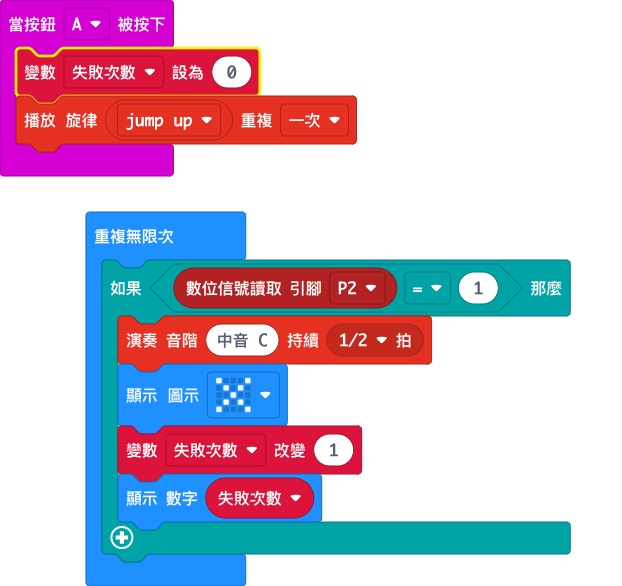
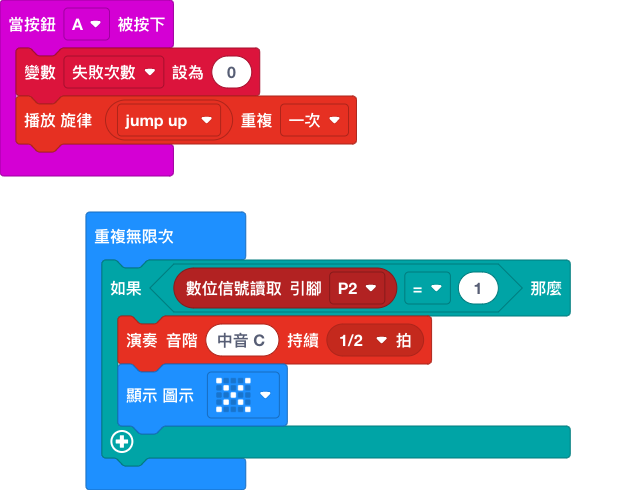
remove master

diff --git a/main.ts b/main.ts
@@ -7,7 +7,5 @@ basic.forever(function () {
     if (pins.digitalReadPin(DigitalPin.P2) == 1) {
         music.playTone(262, music.beat(BeatFraction.Half))
         basic.showIcon(IconNames.No)
-        失敗次數 += 1
-        basic.showNumber(失敗次數)
     }
 })
